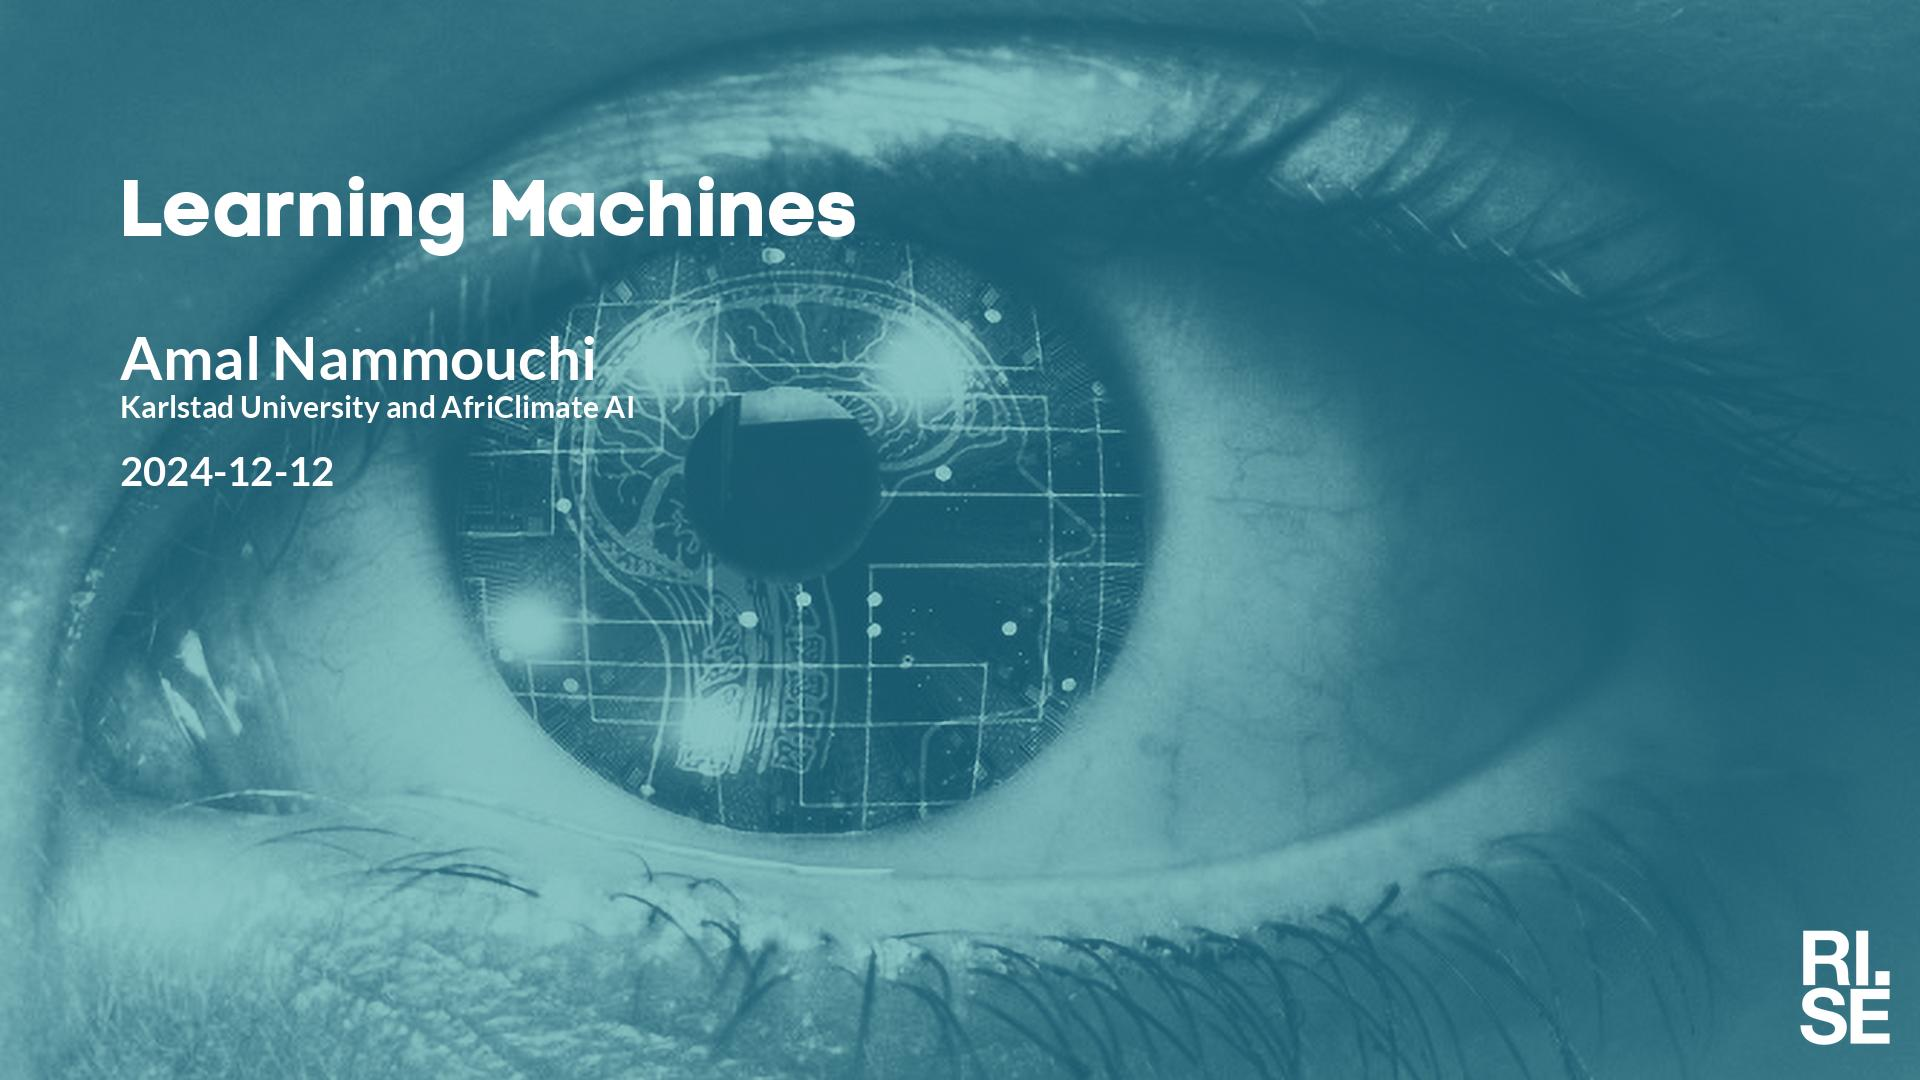
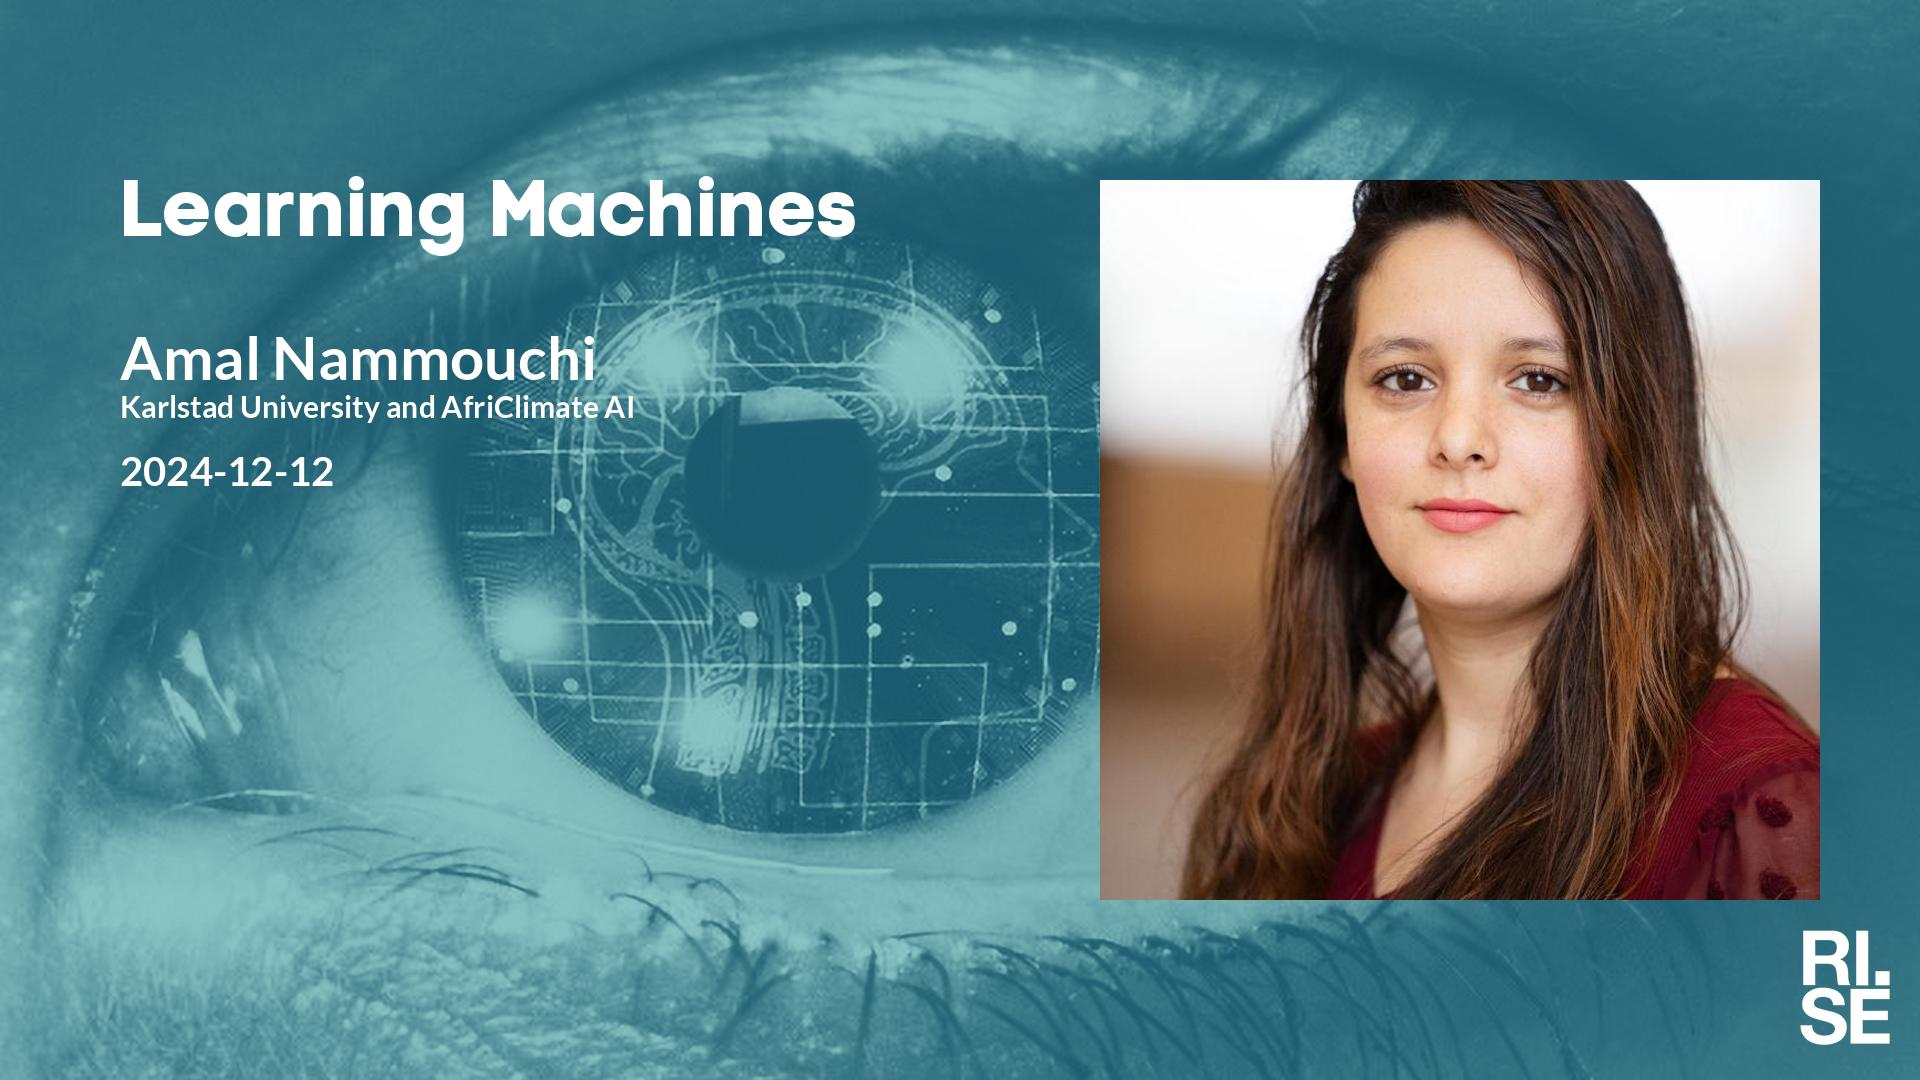
Updated plan on web site.

Changed region(s): [[0.5625, 0.1528, 0.9688, 0.8556]]

diff --git a/lm/index.md b/lm/index.md
@@ -15,7 +15,7 @@ table {border-collapse: collapse;}
 |  2024-11-21  |  [Alp Kucukelbir, Columbia University](2024-11-21.md)  |  [photo](photo-alp-kucukelbir.jpg)  |  [social media ](social-media-alp-kucukelbir.jpg)  |  [meeting backdrop ](meeting-backdrop-alp-kucukelbir.jpg)  |  [youtube thumbnail ](youtube-thumbnail-alp-kucukelbir.jpg)  |  STABP  |
 |  2024-11-28  |  [Alireza Taheri Dehkordi, Lund University](2024-11-28.md)  |  [photo](photo-alireza-taheri-dehkordi.jpg)  |  [social media ](social-media-alireza-taheri-dehkordi.jpg)  |  [meeting backdrop ](meeting-backdrop-alireza-taheri-dehkordi.jpg)  |  [youtube thumbnail ](youtube-thumbnail-alireza-taheri-dehkordi.jpg)  |  STABP  |
 | <span style="color:grey"> 2024-12-05 </span> | <span style="color:grey"> Jonas A. ? </span> | <span style="color:grey">  </span> | <span style="color:grey">  </span> | <span style="color:grey">  </span> | <span style="color:grey">  </span> | <span style="color:grey"> S~~TABP~~ </span> |
-|  2024-12-12  |  [Amal Nammouchi, Karlstad University and AfriClimate AI](2024-12-12.md)  |    |  [social media ](social-media-amal-nammouchi.jpg)  |  [meeting backdrop ](meeting-backdrop-amal-nammouchi.jpg)  |  [youtube thumbnail ](youtube-thumbnail-amal-nammouchi.jpg)  |  S~~TABP~~  |
+|  2024-12-12  |  [Amal Nammouchi, Karlstad University and AfriClimate AI](2024-12-12.md)  |  [photo](photo-amal-nammouchi.jpg)  |  [social media ](social-media-amal-nammouchi.jpg)  |  [meeting backdrop ](meeting-backdrop-amal-nammouchi.jpg)  |  [youtube thumbnail ](youtube-thumbnail-amal-nammouchi.jpg)  |  S~~TAB~~P  |
 | <span style="color:red"> 2024-12-19 </span> | <span style="color:red"> Jullov </span> | <span style="color:red">  </span> | <span style="color:red">  </span> | <span style="color:red">  </span> | <span style="color:red">  </span> | <span style="color:red"> CANCELLED </span> |
 | <span style="color:red"> 2024-12-26 </span> | <span style="color:red"> Jullov </span> | <span style="color:red">  </span> | <span style="color:red">  </span> | <span style="color:red">  </span> | <span style="color:red">  </span> | <span style="color:red"> CANCELLED </span> |
 |  2025-01-16  |  [Oscar Täckström, Sana Labs](2025-01-16.md)  |    |  [social media ](social-media-oscar-tackstrom.jpg)  |  [meeting backdrop ](meeting-backdrop-oscar-tackstrom.jpg)  |  [youtube thumbnail ](youtube-thumbnail-oscar-tackstrom.jpg)  |  S~~TABP~~  |
